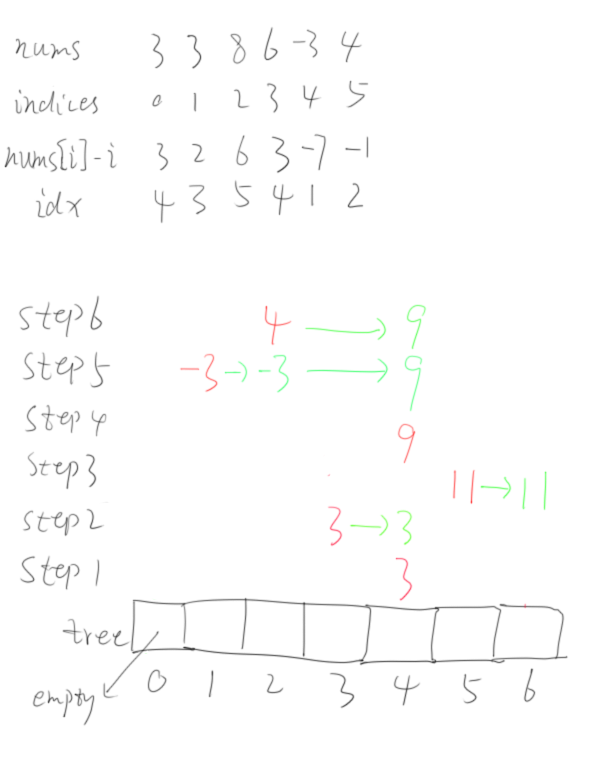
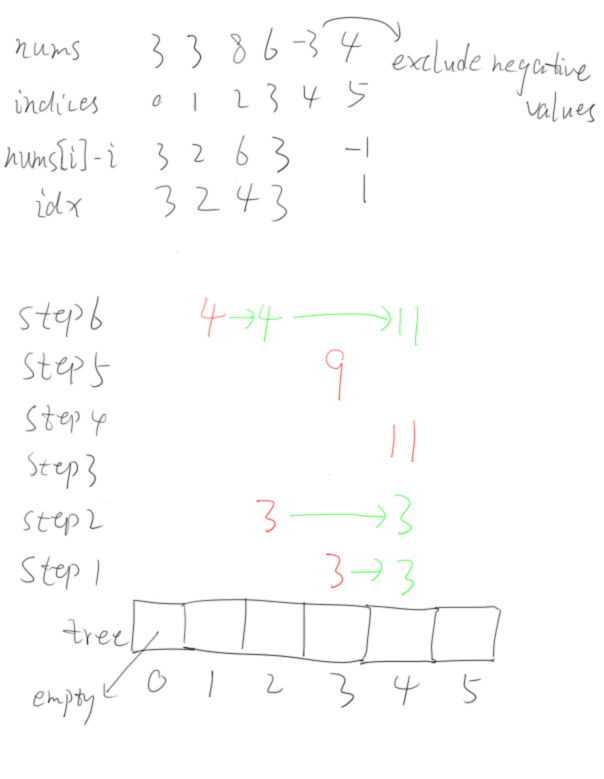
[Release] feat: Add a lot of content

diff --git a/docs/Algorithms.md b/docs/Algorithms.md
@@ -1,6 +1,6 @@
 <!-----------------------------------------------------------
 Author:  Craig Brown
-Version: 1.0.3
+Version: 1.0.4
 Date:    May 13, 2025
 Source:  https://github.com/saidake/simi-docs
 ------------------------------------------------------------->
@@ -6184,11 +6184,18 @@ class FenwickTree:
 ```
 #### C++ Implementation
 ```c++
+/**
+ * Author: Craig Brown
+ * Date:   May 19, 2025
+ * Source: https://github.com/saidake/simi-docs
+ */ 
 class FenwickTree {
 public:
     FenwickTree(int size) : tree(size, 0) {}
 
     void update(int i, long long val) {
+        // [i, tree.length)
+        // Update all relevant positions starting from `i`.
         while (i < tree.size()) {
             tree[i] = max(tree[i], val);
             i += i & -i;
@@ -6197,6 +6204,7 @@ public:
 
     long long prefixSum(int i) {
         long long res = 0;
+        // (0, i]
         while (i > 0) {
             res = max(res, tree[i]);
             i &= i - 1;
@@ -6225,6 +6233,7 @@ public:
 
         if (keySet.empty()) return maxNegVal;
 
+        // Map each key in `keySet` to an index in the Fenwick Tree.
         map<int, int> idxMap;
         int idx = 1;
         for (int key : keySet) {
@@ -6234,11 +6243,14 @@ public:
         FenwickTree tree(idx + 2);
         long long ans = maxNegVal;
 
+        // Iterate through `nums` in order
         for (int i = 0; i < nums.size(); ++i) {
             if (nums[i] <= 0) continue;
+            // Update the tree with the new prefix sum
             int curIdx = idxMap[nums[i] - i];
             long long curSum = tree.prefixSum(curIdx) + nums[i];
             tree.update(curIdx, curSum);
+            // Update the maximum sum
             ans = max(ans, curSum);
         }
 
@@ -6247,8 +6259,92 @@ public:
 };
 
 ```
-<!-- #### Golang Implementation
+#### Golang Implementation
 ```golang
+/**
+ * Author: Craig Brown
+ * Date:   May 19, 2025
+ * Source: https://github.com/saidake/simi-docs
+ */ 
+func maxBalancedSubsequenceSum(nums []int) int64 {
+	// Extract distinct values of `nums[i] - i` for positive `nums[i]`
+    keySet := make(map[int]struct{})
+	maxNegVal := int64(math.MinInt64)
+	for i := 0; i < len(nums); i++ {
+		if nums[i] > 0 {
+			keySet[nums[i]-i] = struct{}{}
+		} else {
+			maxNegVal = maxInt64(maxNegVal, int64(nums[i]))
+		}
+	}
 
-``` -->
+	if len(keySet) == 0 {
+		return maxNegVal
+	}
 
+	keys := make([]int, 0, len(keySet))
+	for k := range keySet {
+		keys = append(keys, k)
+	}
+	sort.Ints(keys)
+
+    // Map each key in `keySet` to an index in the Fenwick Tree.
+	idxMap := make(map[int]int)
+	for i, k := range keys {
+		idxMap[k] = i + 1
+	}
+
+	tree := NewFenwickTree(len(keys) + 2)
+	ans := maxNegVal
+
+    // Iterate through `nums` in order
+	for i := 0; i < len(nums); i++ {
+		if nums[i] <= 0 {
+			continue
+		}
+		key := nums[i] - i
+        // Update the tree with the new prefix sum
+		curIdx := idxMap[key]
+		curSum := tree.PrefixSum(curIdx) + int64(nums[i])
+		tree.Update(curIdx, curSum)
+        // Update the maximum sum
+		ans = maxInt64(ans, curSum)
+	}
+
+	return ans
+}
+
+type FenwickTree struct {
+	tree []int64
+}
+
+func NewFenwickTree(size int) *FenwickTree {
+	return &FenwickTree{tree: make([]int64, size)}
+}
+
+func (f *FenwickTree) Update(i int, val int64) {
+    // [i, tree.length)
+    // Update all relevant positions starting from `i`.
+	for i < len(f.tree) {
+		f.tree[i] = maxInt64(f.tree[i], val)
+		i += i & -i
+	}
+}
+
+func (f *FenwickTree) PrefixSum(i int) int64 {
+	res := int64(0)
+    // (0, i]
+	for i > 0 {
+		res = maxInt64(res, f.tree[i])
+		i &= i - 1
+	}
+	return res
+}
+
+func maxInt64(a, b int64) int64 {
+	if a > b {
+		return a
+	}
+	return b
+}
+```
